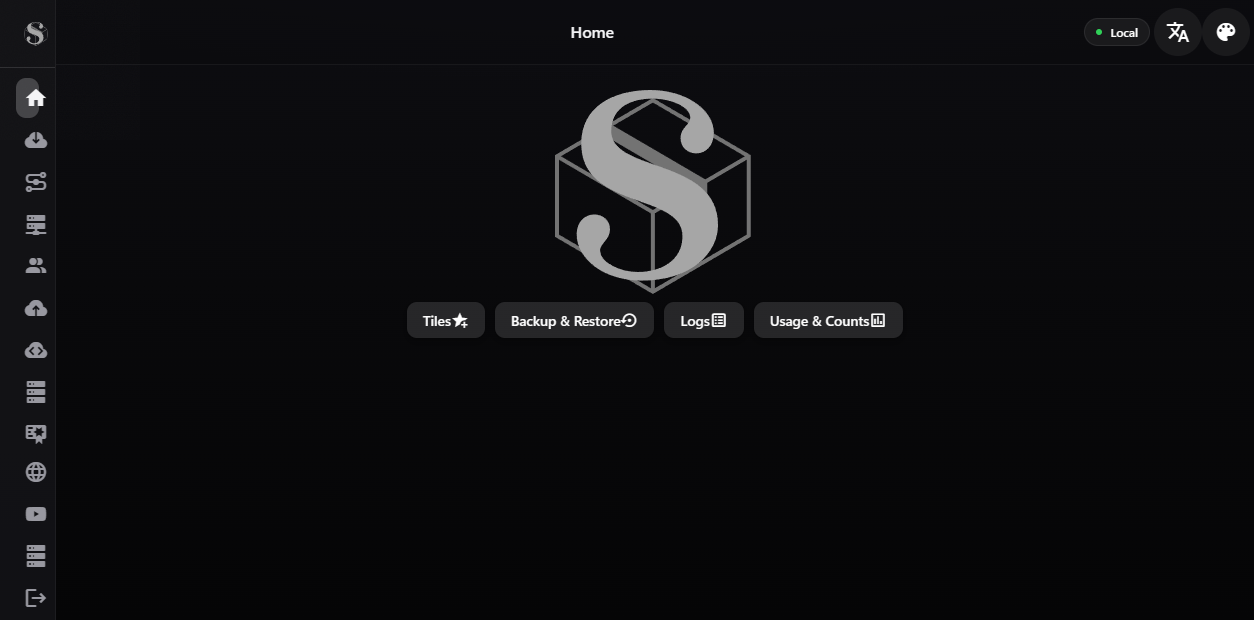
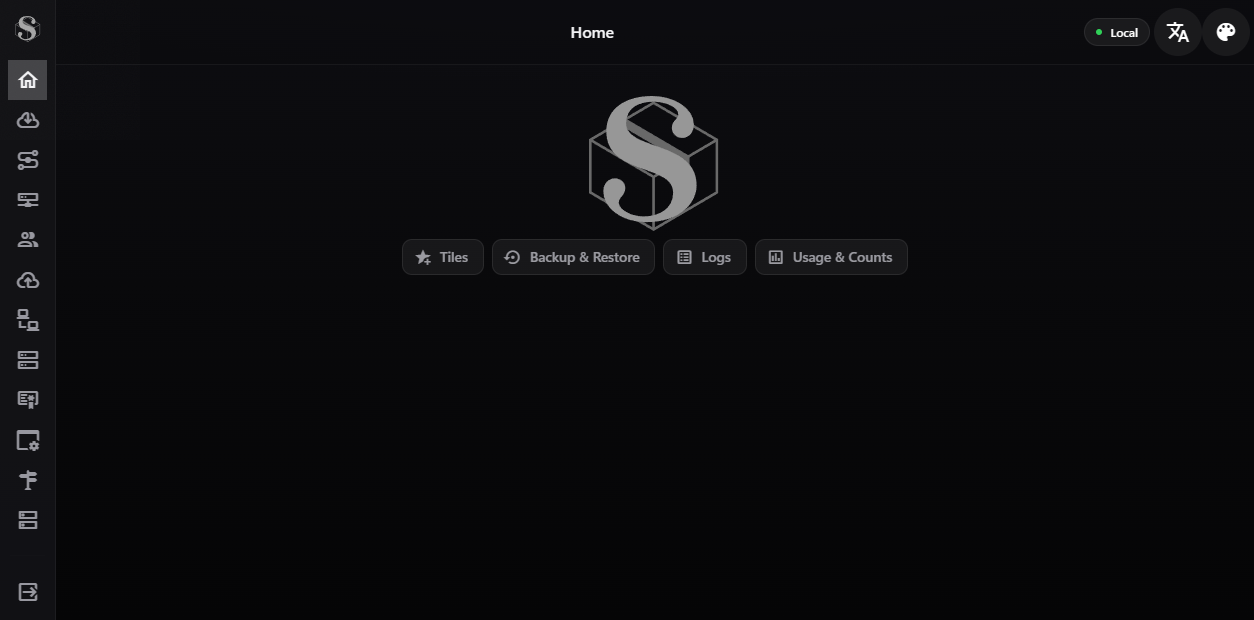
前端：全站工具栏主次统一、确认弹窗改实心红、首页与侧栏结构样式通用化

diff --git a/README.md b/README.md
@@ -148,5 +148,13 @@ token 在面板「服务器」页新增节点时生成，只显示一次。
 - **清掉一条历史包袱**：`Default.vue` 里曾有全局 `.v-card-subtitle { text-align:center; border-bottom:1px solid gray }`，
   它让每张卡片的副标题都变成一条"灰线标题"——这才是廉价感最直接的来源之一。
 
+### 全站一致性（第二轮）
+
+- **一键主次**：所有页面的工具栏统一为「一个实心主操作 + 若干纯文字次操作 + 破坏性操作弱红」；
+  原来 Outbounds / Relay / Settings 都是一排同色按钮，看不出该点哪个。
+- **确认弹窗**：12 个文件里的 `error/success + outlined`（红绿描边）改成「实心红确认 + 文字取消」。
+- **保存按钮**：Basics / DNS / Rules 原来用警告色描边当保存，语义是错的，改为主色实心。
+- **首页**：四个快捷入口图标改前置、统一为轻量按钮，logo 从 200px 收到 132px。
+
 踩坑：抽屉内容区默认是 `display:block`，直接给列表加 `flex/overflow` 不生效，必须先让
 `.v-navigation-drawer__content` 变成 flex 列，列表才能真正滚动；否则 14 项会被裁掉一半。
